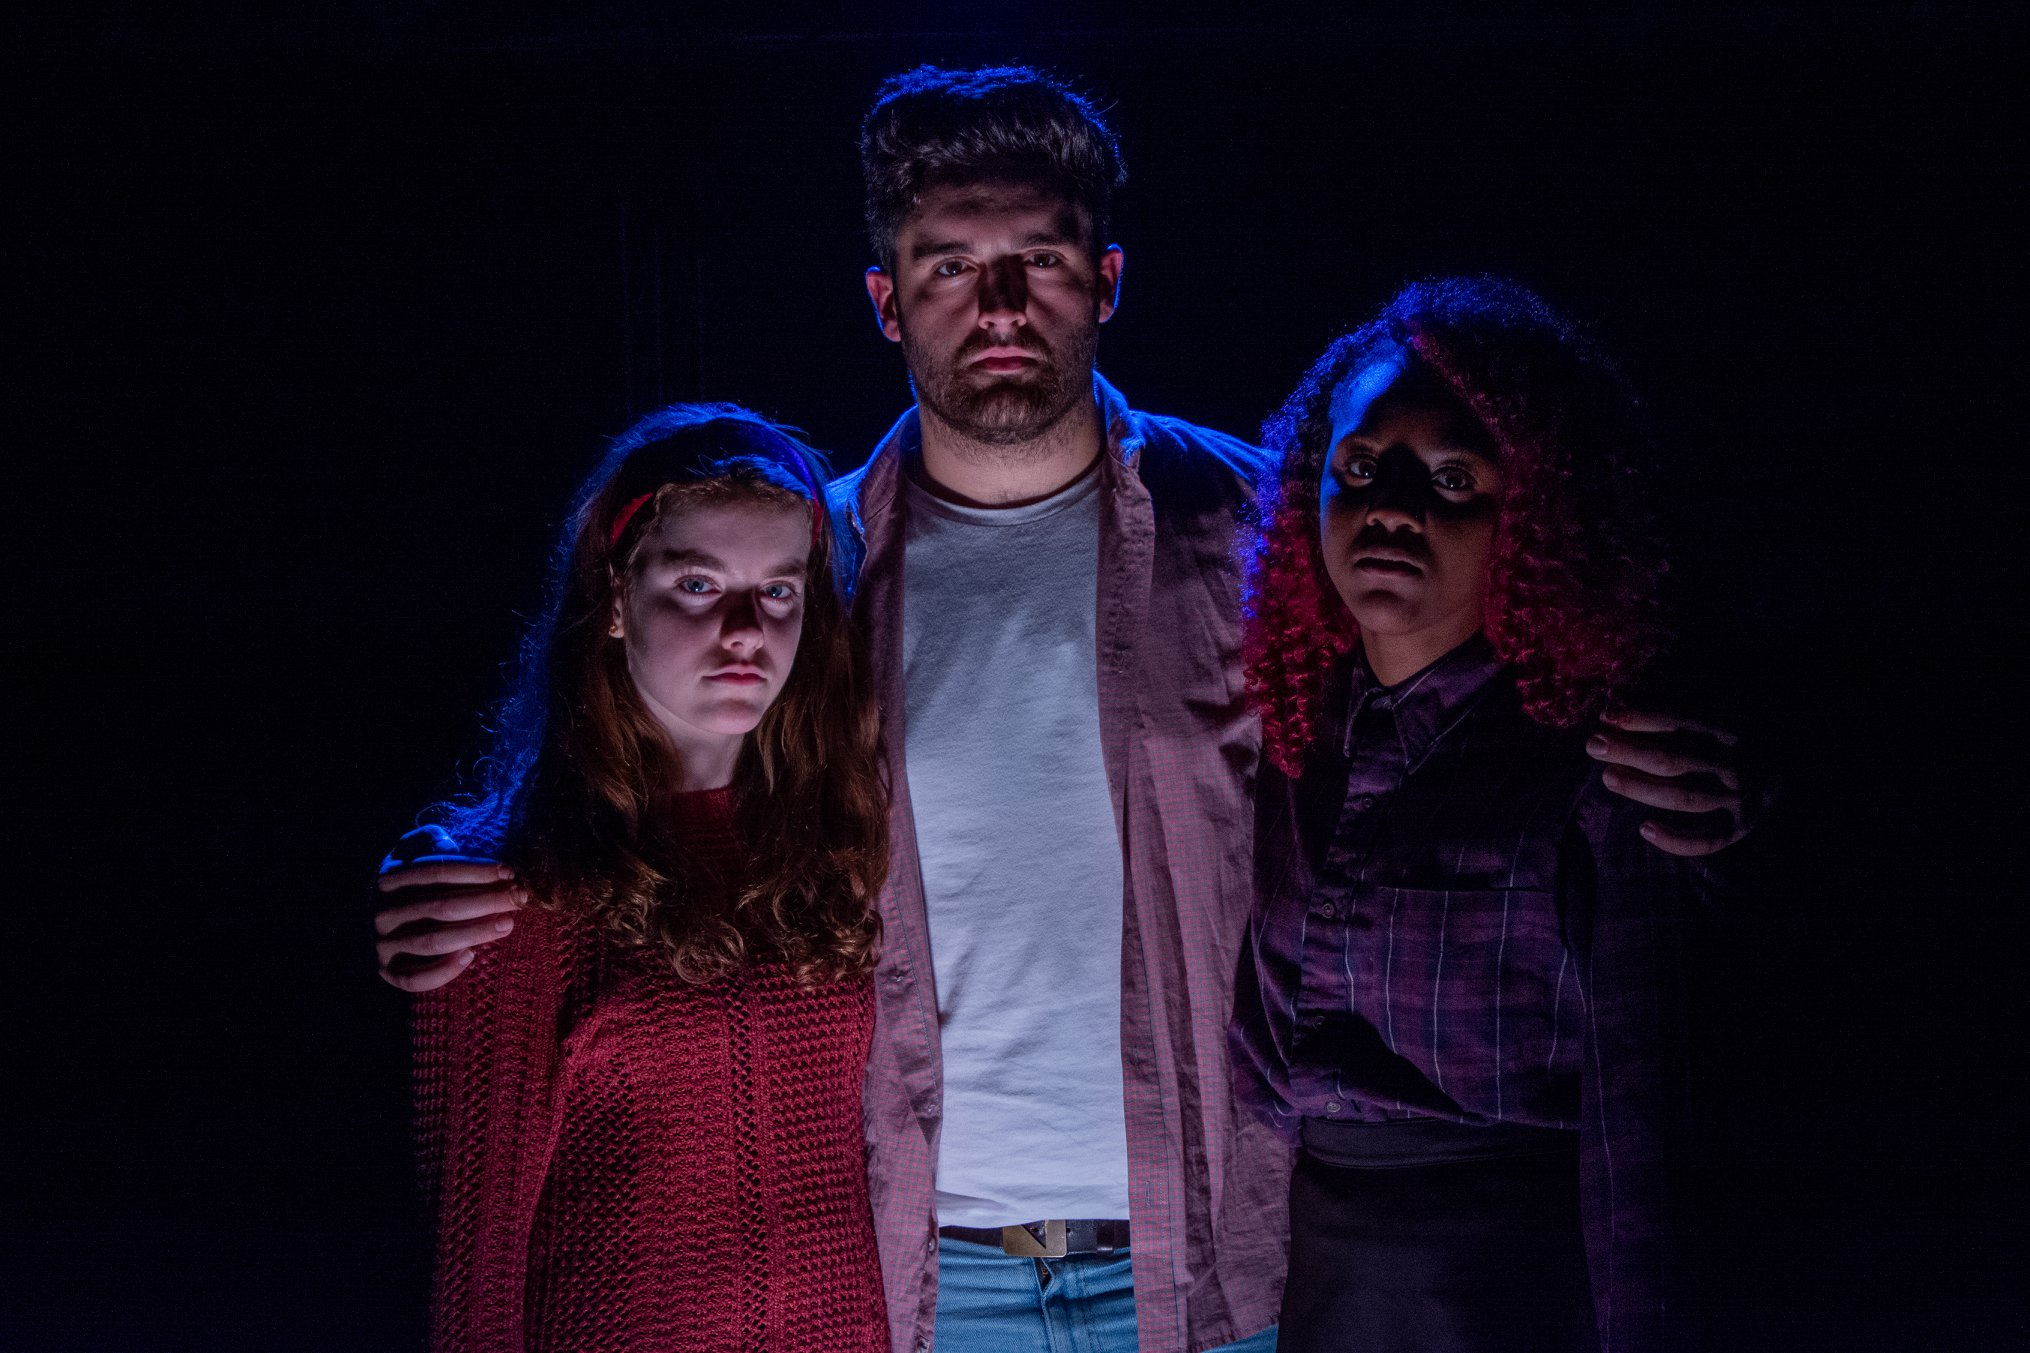
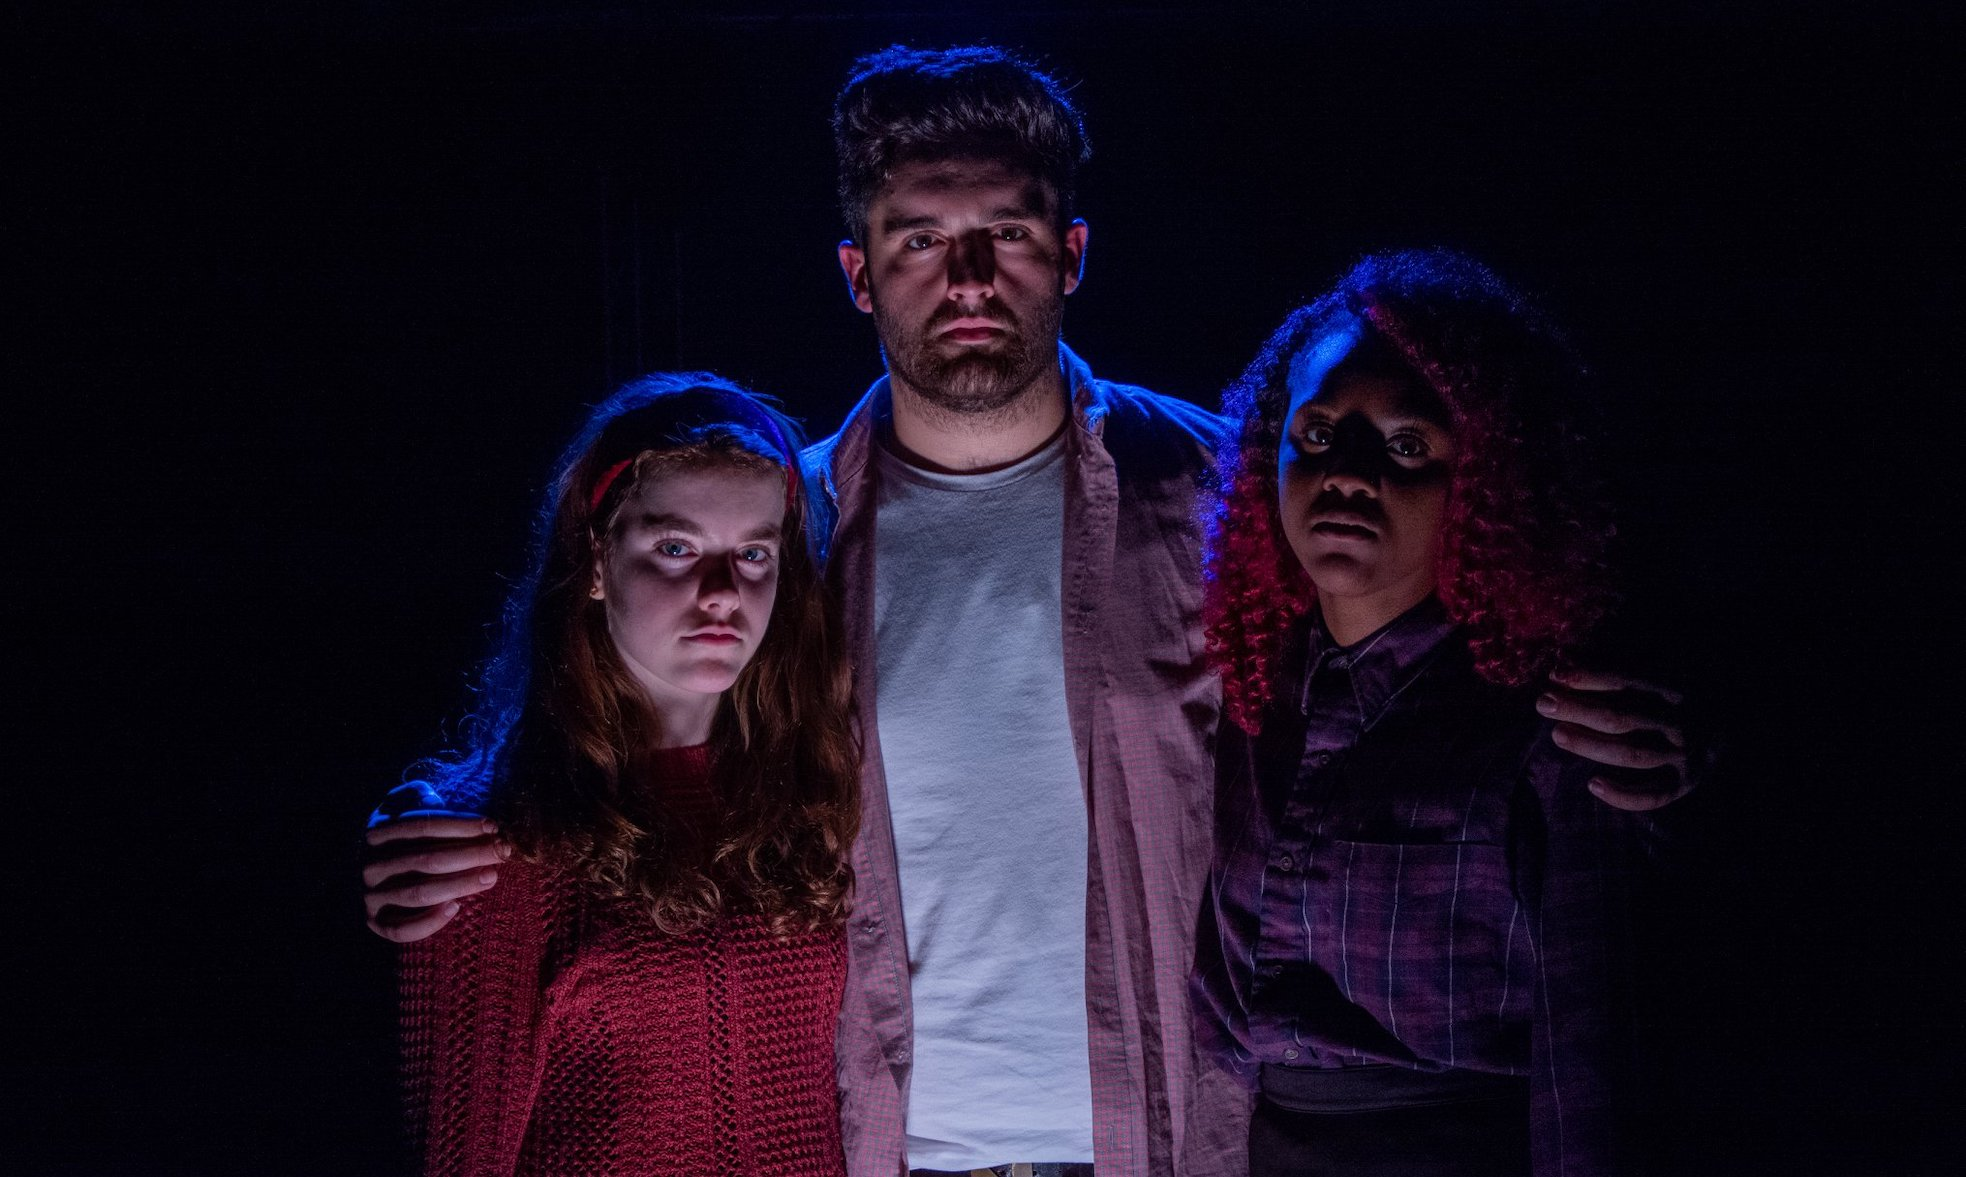
made all picture sre sizing uniform

Changed region(s): [[0.1862, 0.1529, 0.8688, 1.0], [0.4034, 0.0306, 0.5585, 0.1223]]

diff --git a/_layouts/work.html b/_layouts/work.html
@@ -24,6 +24,7 @@ common-css:
                         <div class = "overlay hide" onmouseover="workHover(this)" onmouseout="workOut(this)">
                             <p class = "work-title">{{ work.name }}</p>
                             <span class = "work-description">{{ work.description }}</span>
+                            <span class = "work-note">{{ work.note }} </span> 
                         </div>
                     </a>
                 </div>
@@ -39,6 +40,7 @@ common-css:
                         <div class = "overlay hide" onmouseover="workHover(this)" onmouseout="workOut(this)">
                             <p class = "work-title">{{ work.name }}</p>
                             <span class = "work-description">{{ work.description }}</span>
+                            <span class = "work-note">{{ work.note }} </span>
                         </div>
                     </a>
                 </div>

diff --git a/assets/css/beautifuljekyll.css b/assets/css/beautifuljekyll.css
@@ -1029,7 +1029,6 @@ pre {
 
 .work-item {
   display: flex;
-  height: 400px;
   background-color: #05172d;
   align-items: center;
   justify-content: center;
@@ -1048,6 +1047,11 @@ pre {
   padding-right: 10%;
 }
 
+.work-note {
+  color: white;
+  font-style: italic;
+}
+
 .overlay {
   display: flex;
   align-items: center;
@@ -1058,7 +1062,7 @@ pre {
   opacity: 90%;
   top: 0px;
   left: 0px;
-  height: 400px;
+  height: 100%;
   background-color: #777;
 }
 
